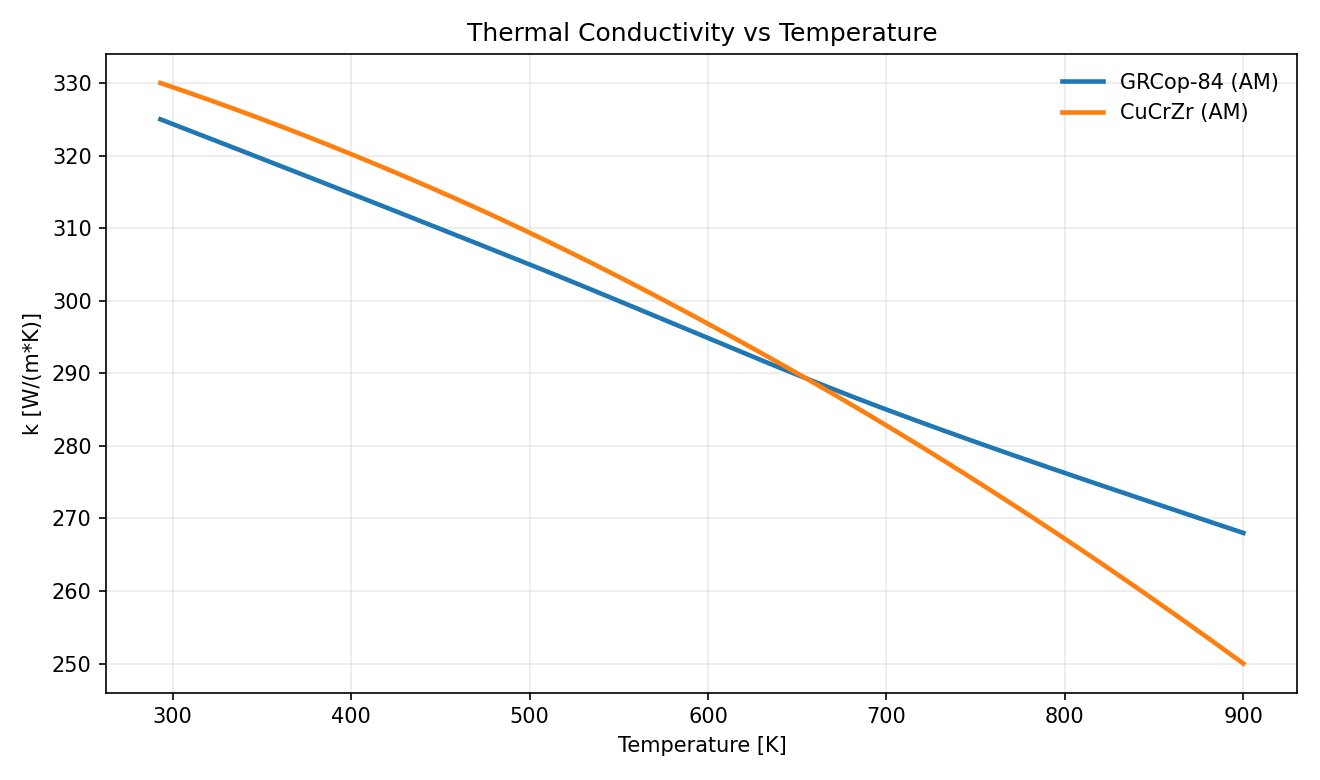
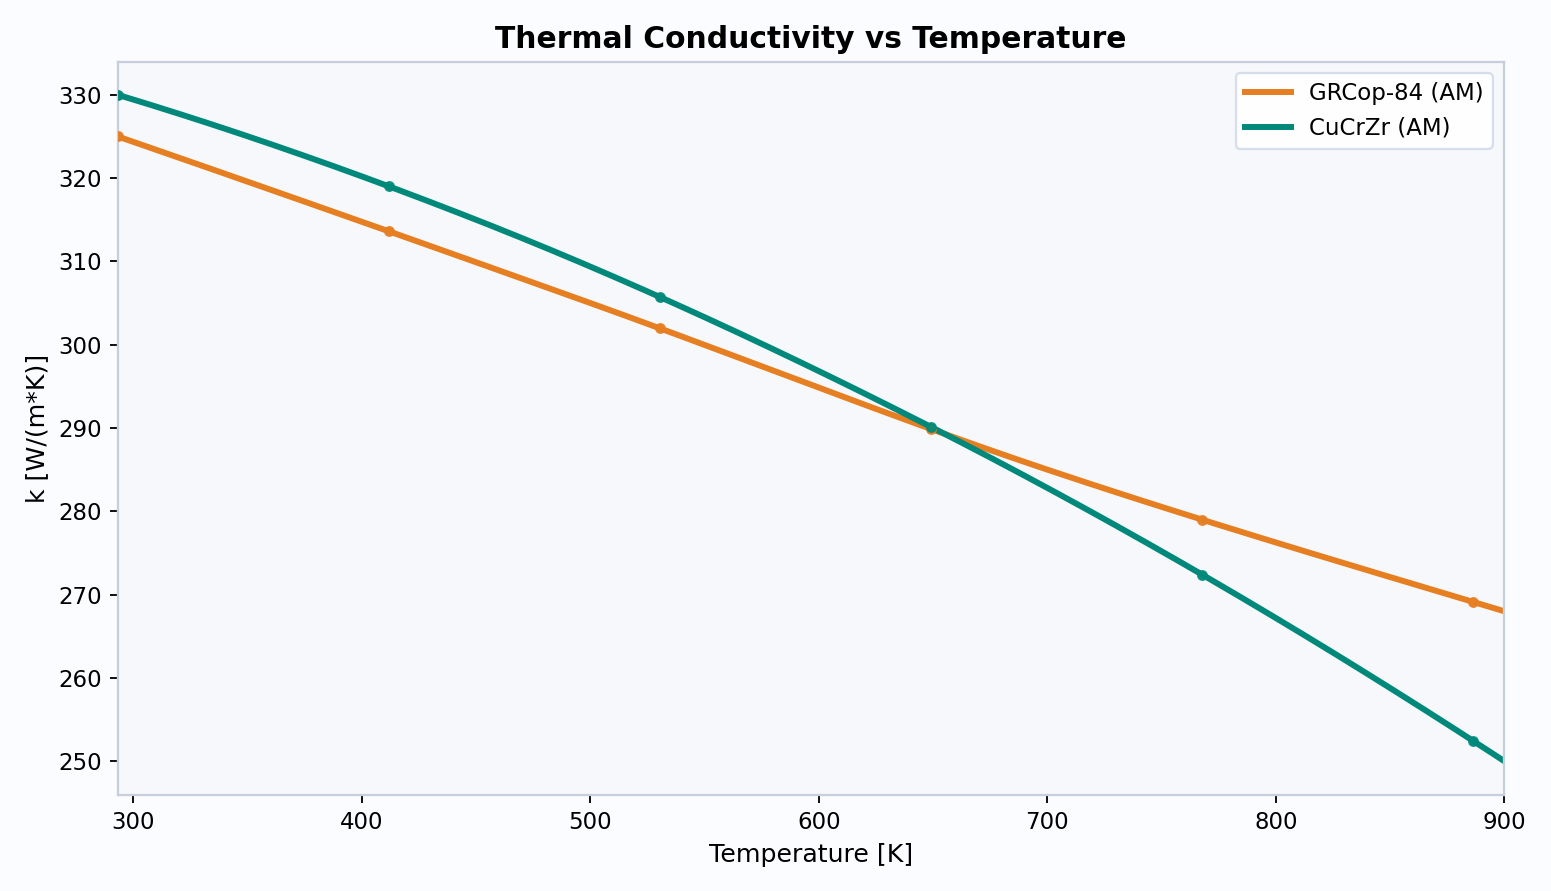
Improve README plot styling and regenerate visual assets

diff --git a/examples/05_plot_property_curves.py b/examples/05_plot_property_curves.py
@@ -8,6 +8,7 @@ from pathlib import Path
 import numpy as np
 
 import opensolids as osl
+from _plot_style import apply_plot_style, color_for_label
 
 try:
     import matplotlib.pyplot as plt
@@ -54,15 +55,17 @@ def generate_thermal_conductivity(plot_dir: Path, data_dir: Path) -> tuple[Path,
         mat = osl.material(material_id)
         curves[label] = np.asarray(mat.k(temps, policy="clamp"), dtype=float)
 
-    fig, ax = plt.subplots(figsize=(8.8, 5.2), dpi=150)
+    fig, ax = plt.subplots(figsize=(9.4, 5.4), dpi=165)
     for label, values in curves.items():
-        ax.plot(temps, values, linewidth=2.2, label=label)
+        color = color_for_label(label)
+        ax.plot(temps, values, linewidth=2.6, color=color, label=label)
+        ax.scatter(temps[::35], values[::35], s=14, color=color, alpha=0.9, zorder=3)
 
     ax.set_title("Thermal Conductivity vs Temperature")
     ax.set_xlabel("Temperature [K]")
     ax.set_ylabel("k [W/(m*K)]")
-    ax.grid(alpha=0.25)
-    ax.legend(frameon=False)
+    ax.set_xlim(float(temps[0]), float(temps[-1]))
+    ax.legend(loc="upper right")
     fig.tight_layout()
 
     plot_path = plot_dir / "curve_k_regen.png"
@@ -92,15 +95,17 @@ def generate_strength_curves(plot_dir: Path, data_dir: Path) -> tuple[Path, Path
         mat = osl.material(material_id)
         curves[label] = np.asarray(mat.sigma_y(temps, units="MPa", policy="clamp"), dtype=float)
 
-    fig, ax = plt.subplots(figsize=(8.8, 5.2), dpi=150)
+    fig, ax = plt.subplots(figsize=(9.4, 5.4), dpi=165)
     for label, values in curves.items():
-        ax.plot(temps, values, linewidth=2.2, label=label)
+        color = color_for_label(label)
+        ax.plot(temps, values, linewidth=2.6, color=color, label=label)
+        ax.scatter(temps[::35], values[::35], s=14, color=color, alpha=0.9, zorder=3)
 
     ax.set_title("Yield Strength vs Temperature")
     ax.set_xlabel("Temperature [K]")
     ax.set_ylabel("sigma_y [MPa]")
-    ax.grid(alpha=0.25)
-    ax.legend(frameon=False)
+    ax.set_xlim(float(temps[0]), float(temps[-1]))
+    ax.legend(loc="upper right")
     fig.tight_layout()
 
     plot_path = plot_dir / "curve_sigma_y_regen.png"
@@ -134,15 +139,22 @@ def generate_diffusivity_curves(plot_dir: Path, data_dir: Path) -> tuple[Path, P
         mat = osl.material(material_id)
         curves[label] = np.asarray(mat.diffusivity(temps, units="mm^2/s", policy="clamp"), dtype=float)
 
-    fig, ax = plt.subplots(figsize=(8.8, 5.2), dpi=150)
+    fig, ax = plt.subplots(figsize=(9.4, 5.4), dpi=165)
     for label, values in curves.items():
-        ax.plot(temps, values, linewidth=2.2, label=label)
+        color = color_for_label(label)
+        ax.plot(temps, values, linewidth=2.6, color=color, label=label)
+        ax.scatter(temps[::35], values[::35], s=14, color=color, alpha=0.9, zorder=3)
+
+    # 6061 data is valid to 300 K in this dataset; values beyond that are clamp-policy behavior.
+    ax.axvspan(300.0, float(temps[-1]), color="#eceff8", alpha=0.65, zorder=0)
+    ax.axvline(300.0, color="#7f8aa3", linewidth=1.2, linestyle="--", alpha=0.8)
+    ax.text(307.0, float(np.max([v.max() for v in curves.values()])) * 0.97, "clamp region for 6061", fontsize=9)
 
     ax.set_title("Thermal Diffusivity vs Temperature")
     ax.set_xlabel("Temperature [K]")
     ax.set_ylabel("diffusivity [mm^2/s]")
-    ax.grid(alpha=0.25)
-    ax.legend(frameon=False)
+    ax.set_xlim(float(temps[0]), float(temps[-1]))
+    ax.legend(loc="upper right")
     fig.tight_layout()
 
     plot_path = plot_dir / "curve_diffusivity_selected.png"
@@ -170,6 +182,8 @@ def generate_diffusivity_curves(plot_dir: Path, data_dir: Path) -> tuple[Path, P
 
 
 def main() -> None:
+    apply_plot_style()
+
     plot_dir = Path("docs/assets/plots")
     data_dir = Path("docs/assets/data")
     _ensure_dirs(plot_dir, data_dir)

diff --git a/examples/09_plot_focus_materials.py b/examples/09_plot_focus_materials.py
@@ -8,6 +8,7 @@ from pathlib import Path
 import numpy as np
 
 import opensolids as osl
+from _plot_style import apply_plot_style
 
 try:
     import matplotlib.pyplot as plt
@@ -55,7 +56,14 @@ def _material_label(material_id: str) -> str:
     return material_id.replace("-am", " (AM)")
 
 
+def _material_color_map(material_ids: list[str]) -> dict[str, tuple[float, float, float, float]]:
+    cmap = plt.get_cmap("tab20")
+    return {material_id: cmap(i % 20) for i, material_id in enumerate(material_ids)}
+
+
 def main() -> None:
+    apply_plot_style()
+
     plot_dir = Path("docs/assets/plots")
     data_dir = Path("docs/assets/data")
     _ensure_dirs(plot_dir, data_dir)
@@ -63,26 +71,58 @@ def main() -> None:
     temps = np.linspace(293.15, 900.0, 180)
     coverage_rows: list[list[str]] = []
 
-    fig, axes = plt.subplots(2, 2, figsize=(12.0, 8.2), dpi=150)
+    fig, axes = plt.subplots(2, 2, figsize=(13.2, 8.8), dpi=165)
     axes_flat = list(axes.ravel())
+    color_map = _material_color_map(FOCUS_MATERIALS)
+    line_handles: dict[str, object] = {}
 
     for ax, (prop, units, title) in zip(axes_flat, PLOT_PROPERTIES):
+        missing_count = 0
         for material_id in FOCUS_MATERIALS:
             mat = osl.material(material_id)
             available = prop in set(mat.available_properties())
             if not available:
+                missing_count += 1
                 continue
             values = np.asarray(getattr(mat, prop)(temps, units=units, policy="clamp"), dtype=float)
-            ax.plot(temps, values, linewidth=1.8, label=_material_label(material_id))
+            label = _material_label(material_id)
+            line_style = "-" if material_id.endswith("-am") else "--"
+            (line,) = ax.plot(
+                temps,
+                values,
+                linewidth=2.0,
+                linestyle=line_style,
+                color=color_map[material_id],
+                label=label,
+            )
+            if label not in line_handles:
+                line_handles[label] = line
 
         ax.set_title(f"{title} vs Temperature")
         ax.set_xlabel("Temperature [K]")
         ax.set_ylabel(f"{prop} [{units}]")
-        ax.grid(alpha=0.2)
-        if ax.lines:
-            ax.legend(frameon=False, fontsize=7, ncol=2)
+        ax.set_xlim(float(temps[0]), float(temps[-1]))
+        if missing_count:
+            ax.text(
+                0.02,
+                0.02,
+                f"omitted (missing property): {missing_count}",
+                transform=ax.transAxes,
+                fontsize=8,
+                color="#607089",
+            )
 
-    fig.tight_layout()
+    fig.suptitle("Focused Material Property Curves", fontsize=14, fontweight="semibold")
+    fig.legend(
+        line_handles.values(),
+        line_handles.keys(),
+        loc="lower center",
+        ncol=4,
+        fontsize=8,
+        frameon=True,
+        bbox_to_anchor=(0.5, -0.01),
+    )
+    fig.tight_layout(rect=[0, 0.06, 1, 0.95])
     plot_path = plot_dir / "focus_materials_properties.png"
     fig.savefig(plot_path)
     plt.close(fig)

diff --git a/examples/06_plot_policy_behavior.py b/examples/06_plot_policy_behavior.py
@@ -8,6 +8,7 @@ from pathlib import Path
 import numpy as np
 
 import opensolids as osl
+from _plot_style import apply_plot_style, color_for_label
 
 try:
     import matplotlib.pyplot as plt
@@ -33,6 +34,8 @@ def _write_csv(path: Path, header: list[str], rows: list[list[float]]) -> None:
 
 
 def main() -> None:
+    apply_plot_style()
+
     plot_dir = Path("docs/assets/plots")
     data_dir = Path("docs/assets/data")
     _ensure_dirs(plot_dir, data_dir)
@@ -44,20 +47,32 @@ def main() -> None:
     k_clamp = np.asarray(mat.k(temps, policy="clamp"), dtype=float)
     k_extrap = np.asarray(mat.k(temps, policy="extrapolate"), dtype=float)
 
-    fig, ax = plt.subplots(figsize=(8.8, 5.2), dpi=150)
-    ax.plot(temps, k_clamp, linewidth=2.2, label="clamp")
-    ax.plot(temps, k_extrap, linewidth=2.2, linestyle="--", label="extrapolate")
+    fig, ax = plt.subplots(figsize=(9.4, 5.4), dpi=165)
+    clamp_color = color_for_label("CuCrZr (AM)", fallback="#00897b")
+    extrap_color = "#c2185b"
+    ax.plot(temps, k_clamp, linewidth=2.6, color=clamp_color, label="policy='clamp'")
+    ax.plot(
+        temps,
+        k_extrap,
+        linewidth=2.3,
+        linestyle="--",
+        color=extrap_color,
+        label="policy='extrapolate'",
+    )
 
-    ax.axvline(curve.valid_T_min, color="gray", linewidth=1.2, alpha=0.75)
-    ax.axvline(curve.valid_T_max, color="gray", linewidth=1.2, alpha=0.75)
-    ax.text(curve.valid_T_min + 6, np.max(k_extrap) - 8, "valid min", fontsize=9)
-    ax.text(curve.valid_T_max + 6, np.max(k_extrap) - 8, "valid max", fontsize=9)
+    ax.axvspan(curve.valid_T_min, curve.valid_T_max, color="#e9effa", alpha=0.75, zorder=0)
+    ax.axvline(curve.valid_T_min, color="#5b6a84", linewidth=1.2, alpha=0.85)
+    ax.axvline(curve.valid_T_max, color="#5b6a84", linewidth=1.2, alpha=0.85)
+    label_y = float(np.max(k_extrap)) * 0.96
+    ax.text(curve.valid_T_min + 8, label_y, "valid min", fontsize=9)
+    ax.text(curve.valid_T_max + 8, label_y, "valid max", fontsize=9)
+    ax.text((curve.valid_T_min + curve.valid_T_max) * 0.5 - 80, label_y, "source-supported range", fontsize=9)
 
     ax.set_title("Out-of-Range Policy Behavior (CuCrZr k(T))")
     ax.set_xlabel("Temperature [K]")
     ax.set_ylabel("k [W/(m*K)]")
-    ax.grid(alpha=0.25)
-    ax.legend(frameon=False)
+    ax.set_xlim(float(temps[0]), float(temps[-1]))
+    ax.legend(loc="upper right")
     fig.tight_layout()
 
     plot_path = plot_dir / "policy_cucrzr_k.png"

diff --git a/examples/_plot_style.py b/examples/_plot_style.py
@@ -1,0 +1,47 @@
+"""Shared plot styling helpers for README-facing visual examples."""
+
+from __future__ import annotations
+
+import matplotlib.pyplot as plt
+
+
+_COLOR_BY_LABEL = {
+    "Al 6061-T6": "#1f78b4",
+    "Aluminum 6061": "#1f78b4",
+    "CuCrZr (AM)": "#00897b",
+    "GRCop-84 (AM)": "#e67e22",
+    "IN718 (AM entry)": "#d81b60",
+    "IN718 (AM)": "#d81b60",
+    "SS304": "#5e35b1",
+}
+
+
+def apply_plot_style() -> None:
+    """Apply a readable, consistent style for documentation plots."""
+    plt.style.use("default")
+    plt.rcParams.update(
+        {
+            "figure.facecolor": "#fbfcff",
+            "savefig.facecolor": "#fbfcff",
+            "axes.facecolor": "#f6f8fc",
+            "axes.edgecolor": "#c7cfdf",
+            "axes.linewidth": 1.0,
+            "axes.titlesize": 13,
+            "axes.titleweight": "semibold",
+            "axes.labelsize": 11,
+            "axes.labelweight": "medium",
+            "font.size": 10,
+            "grid.alpha": 0.35,
+            "grid.color": "#c8d0e0",
+            "grid.linestyle": "-",
+            "legend.frameon": True,
+            "legend.framealpha": 0.95,
+            "legend.facecolor": "#ffffff",
+            "legend.edgecolor": "#d5dceb",
+        }
+    )
+
+
+def color_for_label(label: str, fallback: str = "#1f77b4") -> str:
+    return _COLOR_BY_LABEL.get(label, fallback)
+
